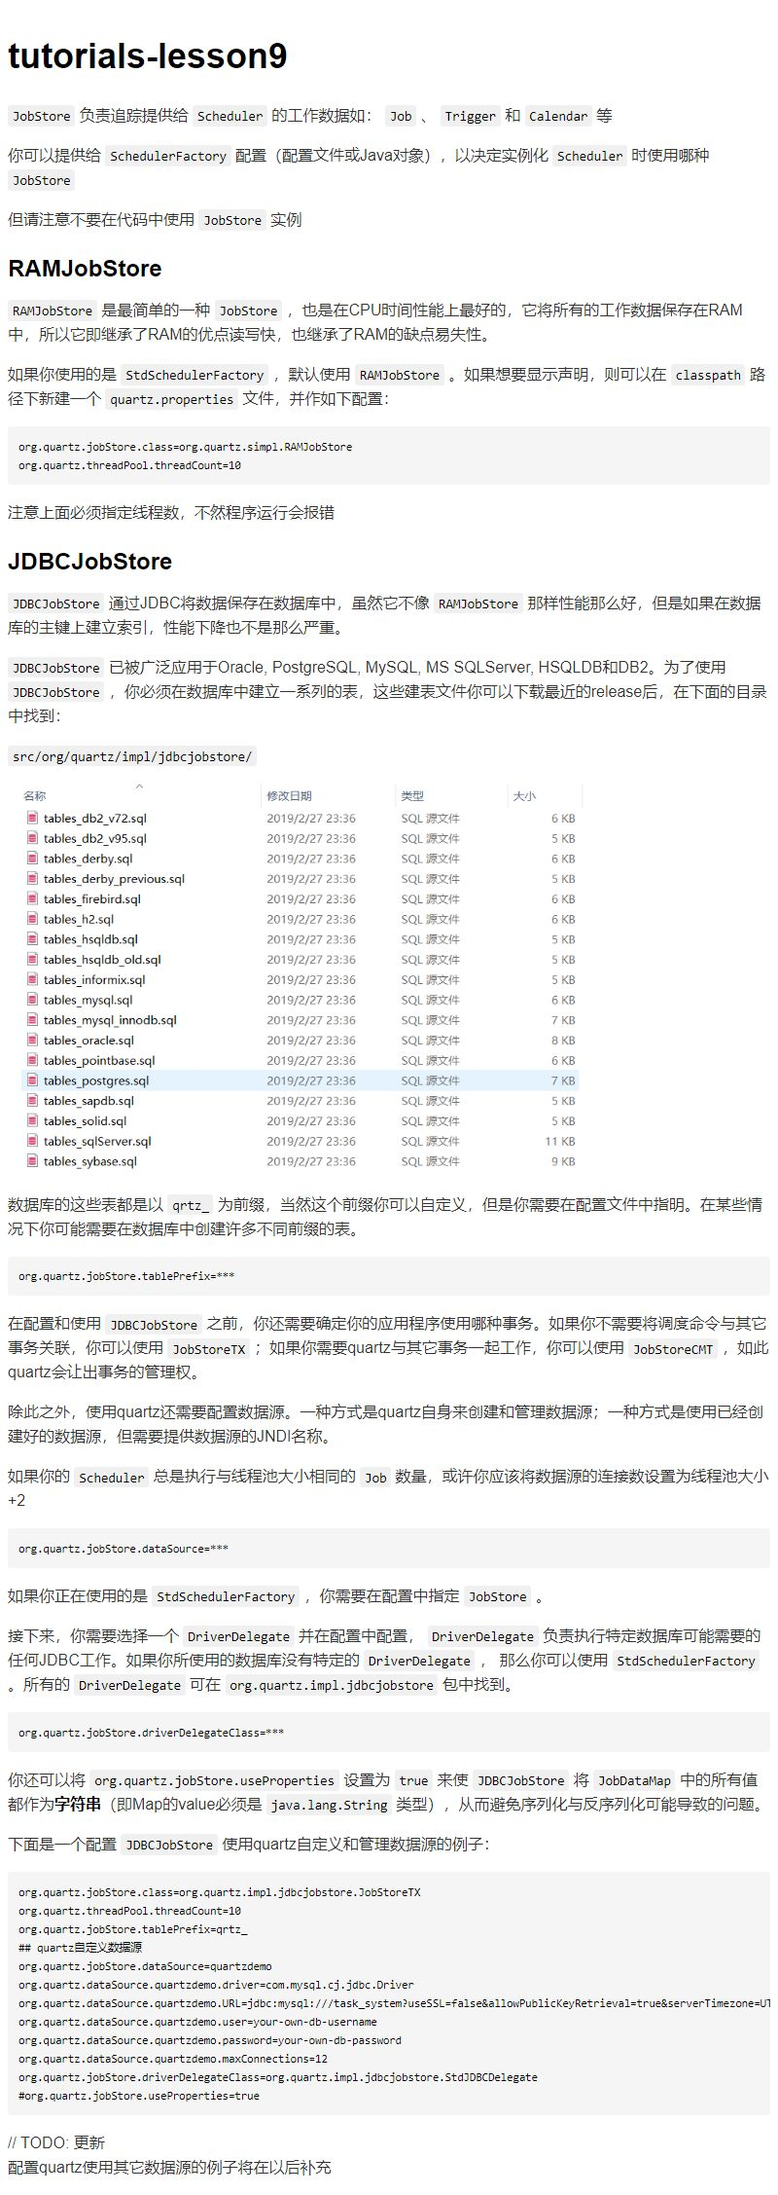
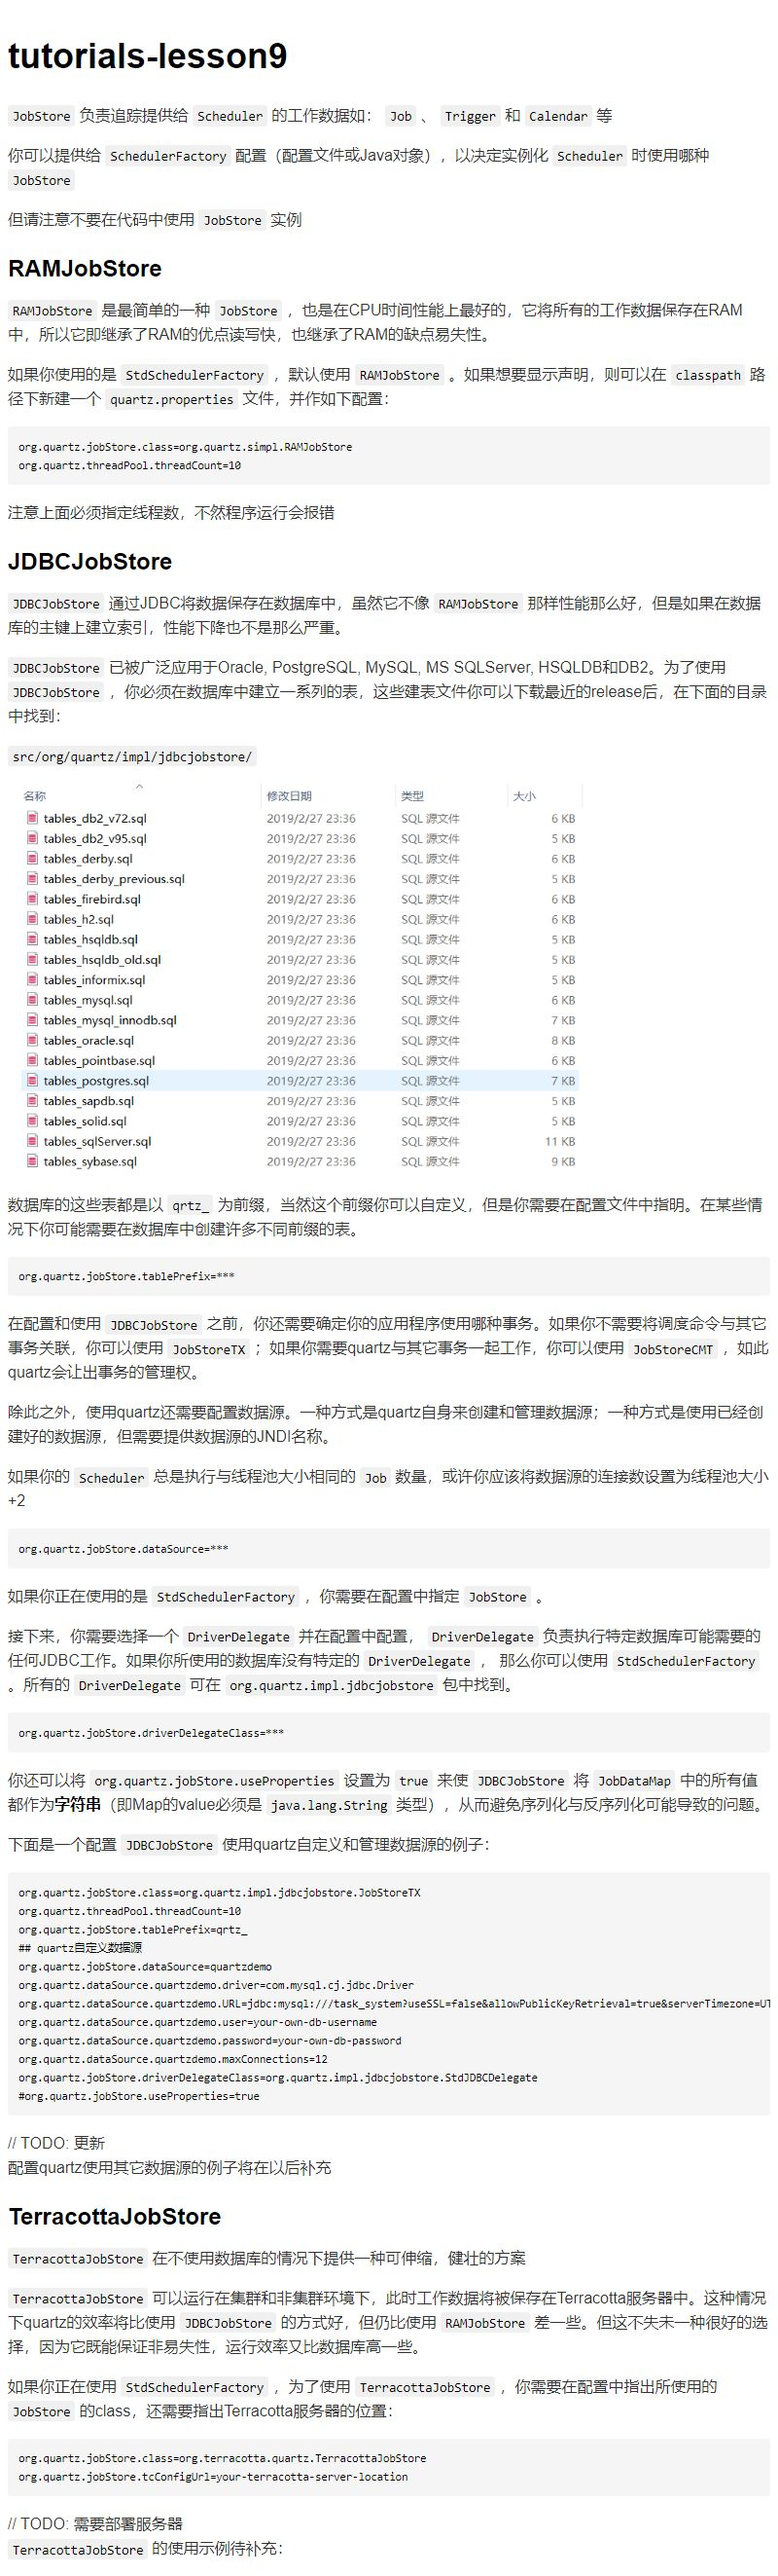
#commit SchedulerFactory和线程池部分

Changed region(s): [[0.0, 0.0, 1.0, 0.9933], [0.8125, 0.745, 0.9688, 0.7761], [0.9062, 0.3104, 0.9375, 0.3415]]

diff --git a/doc/tutorials-lesson10.md b/doc/tutorials-lesson10.md
@@ -1,0 +1,80 @@
+# tutorials-lesson10
+
+quartz在运行前需要配置以下几个模块的东西：
+
+* 线程池
+
+线程池提供线程给quartz执行任务，线程池中线程越多，就能并发地执行越多的任务（理论上说，但有可能你电脑会撑不住:D）。quartz线程池的正确且合适的大小取决于你所使用的 `Scheduler` 的类型。但为了不过多占用资源，线程池的数量越小越好。（确保你的需求的前提下）注意如果线程池的线程数不够， `Trigger` 就会被暂停，这有可能导致线程失火——在配置的 `misfire threshold` 中没有可用的线程。
+
+如果你想要自定义线程池，可以继承 `org.quartz.spi.ThreadPool` 接口。Quartz提供了简单的 `org.quartz.simpl.SimpleThreadPool` 用于使用，它里面的线程数是固定的。
+
+* `JobStore`
+* 数据源（如果使用 `JDBCJobStore` ）
+* `Scheduler` 本身
+  
+`Scheduler` 本身需要被设置一个名字、需要 `RMI` 设置、 `JobStore` 的实例和线程池的实例。 `RMI` 设置包括调度程序是否应将自身创建为RMI的服务器对象（使其可用于远程连接），要使用的主机和端口等。
+
+### StdSchedulerFactory
+
+`StdSchedulerFactory` 实现了 `org.quartz.SchedulerFactory` 接口，它使用 `java.util.Properties` 创建和实例化 `Scheduler` 。这些属性既可以保存在文件中，也可以通过程序创建传递给 `SchedulerFactory` 。
+
+一般来说，简单地通过 `StdSchedulerFactory.getDefaultScheduler()` 就可以创建出一个 `Scheduler`
+
+### DirectSchedulerFactory
+
+实现了 `org.quartz.SchedulerFactory` 接口，`DirectSchedulerFactory` 对用代码的方式创建 `Scheduler` 实例非常有用，但是它不允许声明式配置。（配置文件中配置了也没什么用）下面是一个使用 `DirectSchedulerFactory` 的示例：
+
+```java
+package org.fade.demo.quartzdemo.tutorialslesson10;
+
+import org.quartz.*;
+import org.quartz.impl.DirectSchedulerFactory;
+
+import static org.quartz.JobBuilder.newJob;
+
+/**
+ * @author fade
+ * @date 2021/09/16
+ */
+public class Main {
+
+    public static void main(String[] args) {
+        try {
+            DirectSchedulerFactory factory = DirectSchedulerFactory.getInstance();
+            factory.createVolatileScheduler(10);
+            Scheduler scheduler = factory.getScheduler();
+            scheduler.start();
+            // do something
+            JobDetail job = newJob(DumbJob.class)
+                    .withIdentity("myJob", "group1")
+                    .usingJobData("jobSays", "Hello World!")
+                    .usingJobData("myFloatValue", 3.141f)
+                    .build();
+            // 每40秒重复执行一次
+            Trigger trigger = TriggerBuilder.newTrigger()
+                    .withIdentity("trigger1", "group1")
+                    .startNow()
+                    .withSchedule(CronScheduleBuilder.cronSchedule("0/2 * * * * ?"))
+                    .build();
+            scheduler.scheduleJob(job, trigger);
+            try {
+                Thread.sleep(60000);
+            } catch (InterruptedException e) {
+                e.printStackTrace();
+            }
+            scheduler.shutdown();
+        } catch (SchedulerException e) {
+            e.printStackTrace();
+        }
+    }
+
+}
+```
+
+
+## 日志
+
+quartz使用slf4j日志框架，如果需要改变日志配置，需要你对slf4j日志框架特别熟悉。如果你想要捕获额外的有关于 `Trigger` 触发和任务执行的信息，你可以考虑启用 `org.quartz.plugins.history.LoggingJobHistoryPlugin` 和/或者 `org.quartz.plugins.history.LoggingTriggerHistoryPlugin`
+
+// TODO: 补充使用示例
+

diff --git a/doc/tutorials-lesson9.md b/doc/tutorials-lesson9.md
@@ -74,3 +74,19 @@ org.quartz.jobStore.driverDelegateClass=org.quartz.impl.jdbcjobstore.StdJDBCDele
 
 // TODO: 更新
 配置quartz使用其它数据源的例子将在以后补充
+
+### TerracottaJobStore
+
+`TerracottaJobStore` 在不使用数据库的情况下提供一种可伸缩，健壮的方案
+
+`TerracottaJobStore` 可以运行在集群和非集群环境下，此时工作数据将被保存在Terracotta服务器中。这种情况下quartz的效率将比使用 `JDBCJobStore` 的方式好，但仍比使用 `RAMJobStore` 差一些。但这不失未一种很好的选择，因为它既能保证非易失性，运行效率又比数据库高一些。
+
+如果你正在使用 `StdSchedulerFactory` ，为了使用 `TerracottaJobStore` ，你需要在配置中指出所使用的 `JobStore` 的class，还需要指出Terracotta服务器的位置：
+
+```
+org.quartz.jobStore.class=org.terracotta.quartz.TerracottaJobStore
+org.quartz.jobStore.tcConfigUrl=your-terracotta-server-location
+```
+
+// TODO: 需要部署服务器
+`TerracottaJobStore` 的使用示例待补充：
